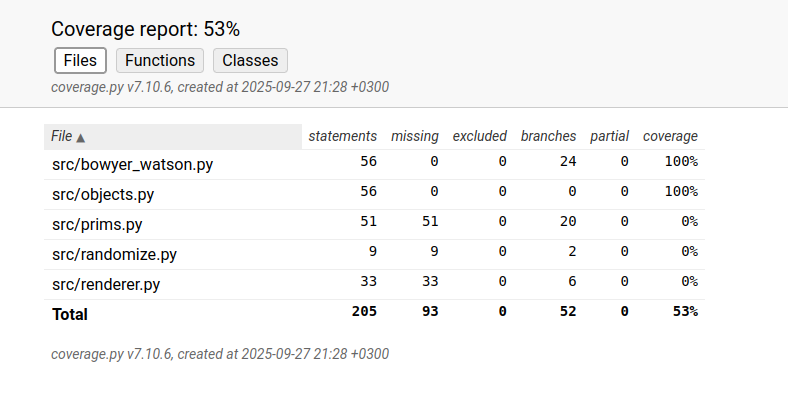
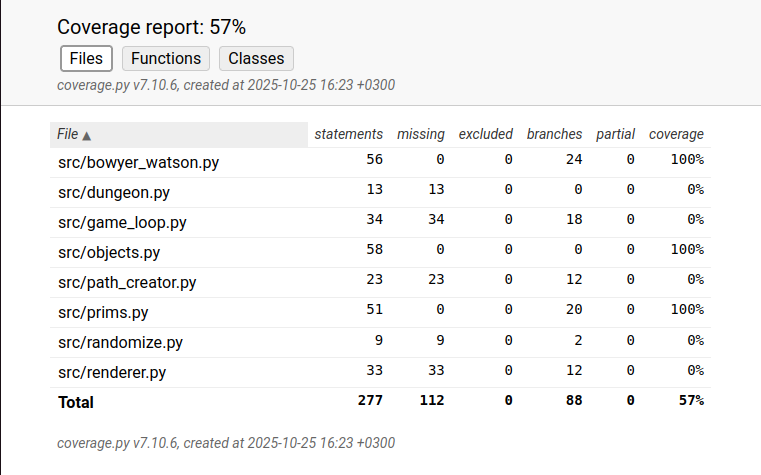
Testikattavuus päivitetty

diff --git a/dokumentaatio/testausdokumentti.md b/dokumentaatio/testausdokumentti.md
@@ -14,4 +14,4 @@ ja kattavuusraportin saa komennolla:
 poetry run invoke coverage-report
 ```
 
-Ohjelmaa ei ole vielä testattu monimutkaisemmilla testeillä.
+Ohjelmaa ole testattu monimutkaisemmilla testeillä.
